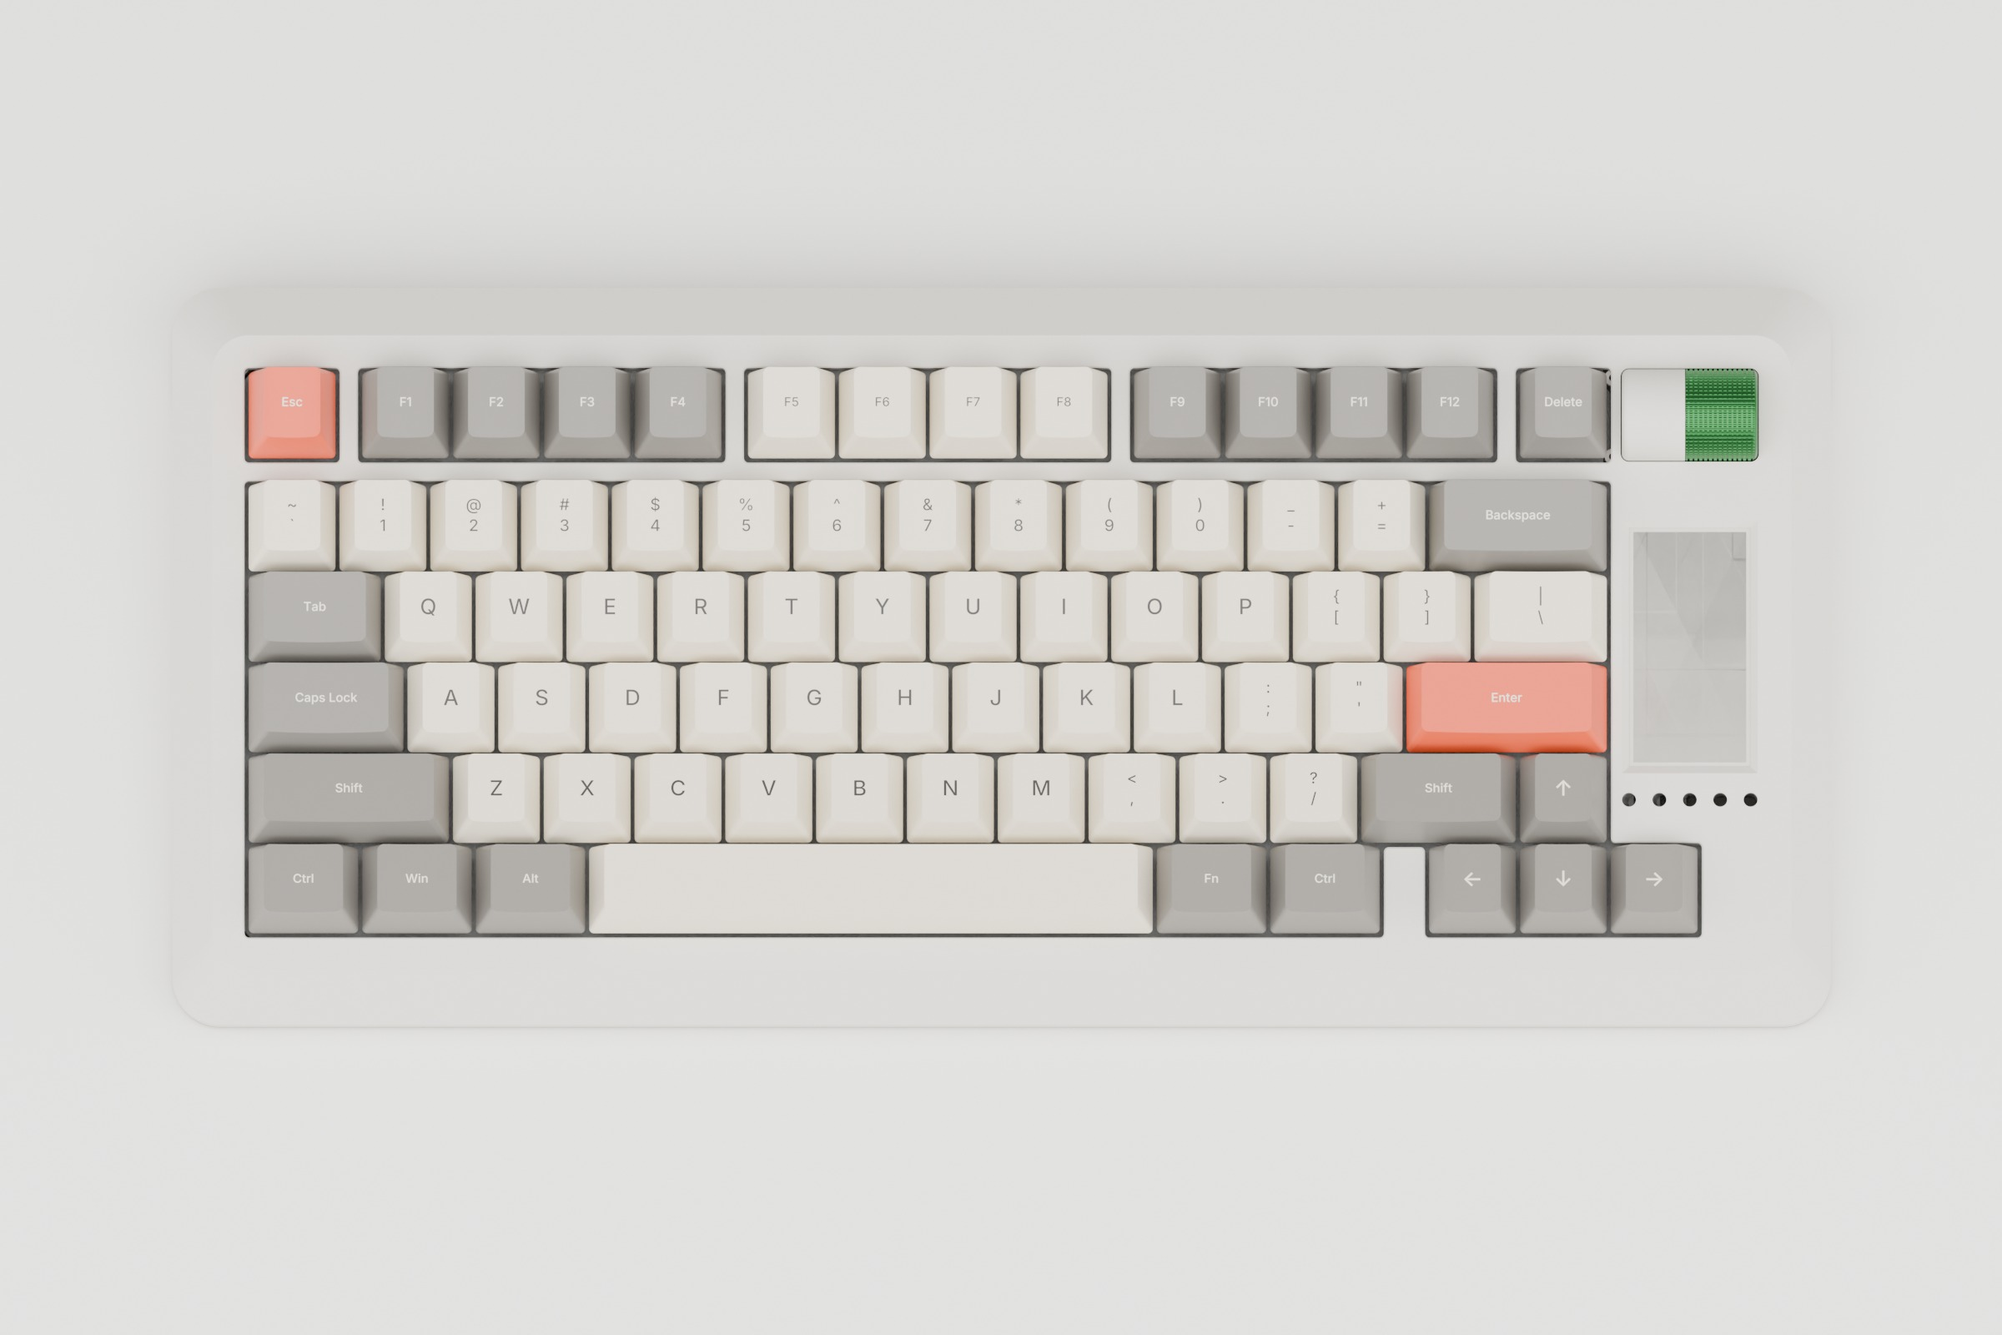
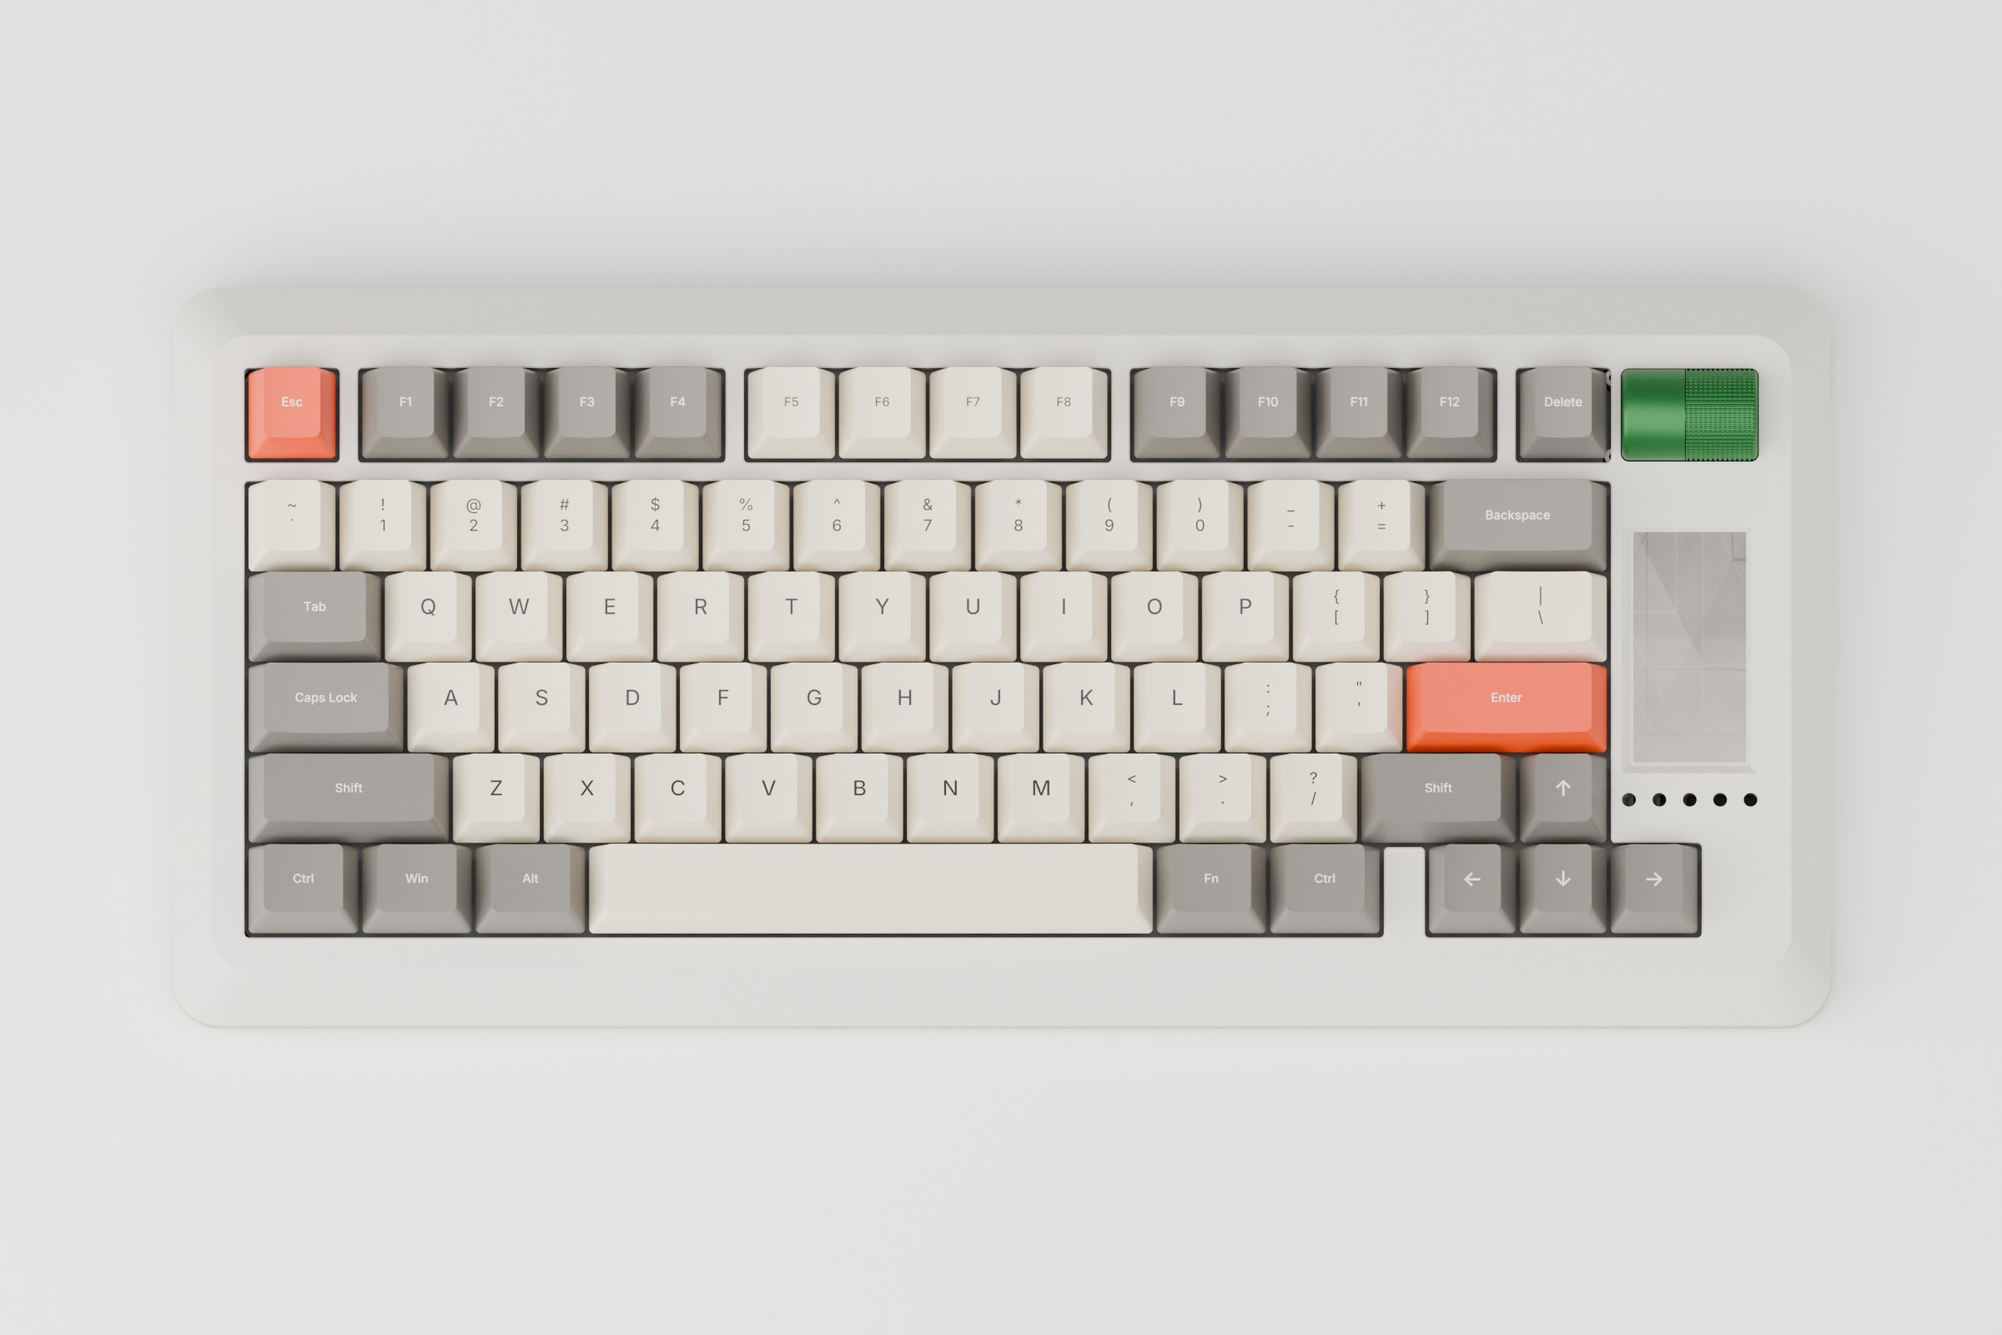
Case renders: lighter orange, anodised encoder cover, felt mat, more contrast
From Tiam's review: ring, knob and encoder cover in a lighter orange that
matches the keycaps; the loose keycap sits flat; lower exposure and more
contrast; a felt desk mat, plant, framed print and pen in the dramatic
scene; higher samples. Adds the montage script.

diff --git a/hardware/case/blender/render.py b/hardware/case/blender/render.py
@@ -26,7 +26,8 @@ sc.cycles.use_adaptive_sampling = True
 sc.cycles.use_denoising = True
 sc.cycles.max_bounces = 10; sc.cycles.transmission_bounces = 10; sc.cycles.glossy_bounces = 6
 sc.view_settings.view_transform = "AgX"
-sc.view_settings.look = "AgX - Medium High Contrast" if SCENE == "dramatic" else "AgX - Base Contrast"
+sc.view_settings.look = "AgX - High Contrast" if SCENE == "dramatic" else "AgX - Medium High Contrast"
+sc.view_settings.exposure = {"dramatic": -0.35, "views": -0.3, "simple": 0.3}.get(SCENE, 0.0)
 sc.render.image_settings.file_format = "PNG"
 sc.render.film_transparent = False
 
@@ -134,7 +135,7 @@ def shot(cam, name, res=(2400, 1600)):
     sc.render.filepath = os.path.join(OUT, name + ".png")
     bpy.ops.render.render(write_still=True); print("wrote", sc.render.filepath)
 
-def copy_cap(keyword, loc, rot):
+def copy_cap(keyword, loc, rot, floor=0.0):
     """Loose keycap prop: copy a cap and its legends, move them to loc."""
     parts = [o for o in root.children if o.get("key") == keyword and o["role"] in ("keycap", "legend")]
     if not parts: return
@@ -147,7 +148,13 @@ def copy_cap(keyword, loc, rot):
     for o in parts:
         n = o.copy(); link(n); n.parent = None; n.matrix_world = o.matrix_world.copy()
         n.parent = e; n.matrix_parent_inverse = e.matrix_world.inverted()
-    e.location = loc; e.rotation_euler = rot
+    # undo the board's 4 deg tilt so the cap sits level, then rest its lowest vertex on the desk
+    e.rotation_euler = Euler((-math.radians(4.0), 0, 0))
+    e.rotation_euler.rotate(rot)
+    e.location = loc
+    bpy.context.view_layer.update()
+    zmin = min((n.matrix_world @ v.co).z for n in e.children for v in n.data.vertices)
+    e.location.z -= zmin - floor + 0.0001
 
 lo, hi = world_bounds()
 print("bounds", lo, hi)
@@ -156,9 +163,9 @@ CTR = Vector(((lo.x + hi.x) / 2, (lo.y + hi.y) / 2, 0.012))
 # =====================================================================
 if SCENE == "dramatic":
     world("#1A2030", 0.05)
-    plaster = surface_mat("Plaster", "#B9AB9A", "#CBBFAF", scale=45, bump=0.45, rough=0.92)
-    wood = surface_mat("Oak desk", "#5E3F27", "#86603F", scale=6, bump=0.04, rough=0.5, voronoi=False,
-                       stretch=(0.4, 9.0, 1.0))
+    plaster = surface_mat("Plaster", "#A08E7A", "#CDBFAD", scale=30, bump=0.9, rough=0.92)
+    wood = surface_mat("Oak desk", "#432A18", "#8E6640", scale=6, bump=0.10, rough=0.45, voronoi=False,
+                       stretch=(0.25, 16.0, 1.0))
     def box(name, size, loc, m):
         me = bpy.data.meshes.new(name); bm = bmesh.new(); bmesh.ops.create_cube(bm, size=1.0); bm.to_mesh(me)
         o = link(bpy.data.objects.new(name, me)); o.scale = size; o.location = loc; me.materials.append(m); return o
@@ -166,7 +173,7 @@ if SCENE == "dramatic":
     box("Wall", (3.0, 0.05, 2.0), (0, 0.30 + 0.025, 1.0), plaster)
     # Low warm sun from the front left, through a window with blinds (a gobo card)
     d = Vector((0.62, 0.62, -0.48)).normalized()
-    sun = bpy.data.lights.new("Sun", "SUN"); sun.energy = 9.0; sun.angle = math.radians(0.8)
+    sun = bpy.data.lights.new("Sun", "SUN"); sun.energy = 6.5; sun.angle = math.radians(0.8)
     sun.color = (1.0, 0.78, 0.55)
     so = link(bpy.data.objects.new("Sun", sun)); so.rotation_euler = d.to_track_quat("-Z", "Y").to_euler()
     g = bpy.data.materials.new("Gobo"); g.use_nodes = True; nt = g.node_tree
@@ -213,22 +220,86 @@ if SCENE == "dramatic":
     bpy.ops.mesh.primitive_cylinder_add(radius=0.039, depth=0.002, vertices=128, location=(0.13, 0.215, 0.084))
     bpy.context.object.data.materials.append(coffee)
     nb = simple_mat("Notebook", "#36443A", 0.8)
-    o = box("Notebook", (0.15, 0.21, 0.012), (0.36, 0.12, 0.006), nb); o.rotation_euler.z = math.radians(-14)
-    copy_cap("Esc", (0.19, -0.17, 0.0), Euler((0, 0, math.radians(32))))
-    copy_cap("Enter", (0.09, -0.185, 0.0), Euler((0, 0, math.radians(-12))))
+    o = box("Notebook", (0.15, 0.21, 0.012), (0.41, 0.07, 0.006), nb); o.rotation_euler.z = math.radians(-14)
+    # Felt desk mat with rounded corners under the board
+    MAT_T = 0.004
+    bm = bmesh.new(); W2, H2, r = 0.36, 0.17, 0.028; pts = []
+    for cx, cy, a0 in ((W2 - r, H2 - r, 0), (-W2 + r, H2 - r, 90), (-W2 + r, -H2 + r, 180), (W2 - r, -H2 + r, 270)):
+        for i in range(13):
+            a = math.radians(a0 + i * 7.5); pts.append((cx + r * math.cos(a), cy + r * math.sin(a)))
+    vs = [bm.verts.new((x, y, 0)) for x, y in pts]; f = bm.faces.new(vs)
+    ext = bmesh.ops.extrude_face_region(bm, geom=[f])
+    for v in ext["geom"]:
+        if isinstance(v, bmesh.types.BMVert): v.co.z = MAT_T
+    bmesh.ops.recalc_face_normals(bm, faces=bm.faces)
+    me = bpy.data.meshes.new("Mat"); bm.to_mesh(me)
+    mat_o = link(bpy.data.objects.new("Felt mat", me)); mat_o.location = (-0.05, -0.05, 0.0)
+    mat_o.rotation_euler.z = math.radians(-1.5)
+    bv = mat_o.modifiers.new("bv", "BEVEL"); bv.width = 0.0015; bv.segments = 3; bv.limit_method = "ANGLE"
+    felt = bpy.data.materials.new("Wool felt"); felt.use_nodes = True; nt = felt.node_tree
+    fb = nt.nodes["Principled BSDF"]; fb.inputs["Base Color"].default_value = srgb("#4E4C49")
+    fb.inputs["Roughness"].default_value = 1.0; fb.inputs["Sheen Weight"].default_value = 0.8
+    fb.inputs["Sheen Roughness"].default_value = 0.45; fb.inputs["Sheen Tint"].default_value = srgb("#B9B4AC")
+    geo = nt.nodes.new("ShaderNodeNewGeometry")
+    n1 = nt.nodes.new("ShaderNodeTexNoise"); n1.inputs["Scale"].default_value = 2200; n1.inputs["Detail"].default_value = 10
+    n2 = nt.nodes.new("ShaderNodeTexNoise"); n2.inputs["Scale"].default_value = 60; n2.inputs["Detail"].default_value = 4
+    nt.links.new(geo.outputs["Position"], n1.inputs["Vector"]); nt.links.new(geo.outputs["Position"], n2.inputs["Vector"])
+    cr = nt.nodes.new("ShaderNodeValToRGB"); cr.color_ramp.elements[0].color = srgb("#46443F"); cr.color_ramp.elements[1].color = srgb("#58564F")
+    nt.links.new(n2.outputs["Fac"], cr.inputs["Fac"]); nt.links.new(cr.outputs["Color"], fb.inputs["Base Color"])
+    bp = nt.nodes.new("ShaderNodeBump"); bp.inputs["Strength"].default_value = 0.35; bp.inputs["Distance"].default_value = 0.0004
+    nt.links.new(n1.outputs["Fac"], bp.inputs["Height"]); nt.links.new(bp.outputs["Normal"], fb.inputs["Normal"])
+    me.materials.append(felt)
+    root.location.z += MAT_T
+    # More set dressing behind the board: a potted plant and a framed print leaning on the wall
+    terra = surface_mat("Terracotta", "#9C5235", "#B8694A", scale=120, bump=0.3, rough=0.85)
+    bpy.ops.mesh.primitive_cone_add(vertices=96, radius1=0.036, radius2=0.047, depth=0.075, location=(-0.12, 0.225, 0.0375))
+    pot = bpy.context.object; pot.data.materials.append(terra)
+    for p in pot.data.polygons: p.use_smooth = True
+    soil = simple_mat("Soil", "#2B1D14", 0.95)
+    bpy.ops.mesh.primitive_cylinder_add(radius=0.044, depth=0.002, vertices=64, location=(-0.12, 0.225, 0.07))
+    bpy.context.object.data.materials.append(soil)
+    leaf = simple_mat("Leaf", "#3F6B3A", 0.35, **{"Subsurface Weight": 0.15, "Coat Weight": 0.3})
+    import random; random.seed(7)
+    for i in range(14):
+        a = i * 2.399; tilt = math.radians(18 + 22 * random.random())
+        h = 0.07 + 0.05 * random.random()
+        bpy.ops.mesh.primitive_uv_sphere_add(segments=24, ring_count=12, radius=1.0)
+        lf = bpy.context.object; lf.data.materials.append(leaf)
+        for p in lf.data.polygons: p.use_smooth = True
+        lf.scale = (0.011, 0.0035, h / 2)
+        lf.rotation_euler = Euler((tilt, 0, a))
+        lf.location = Vector((-0.12, 0.225, 0.07)) + Euler((tilt, 0, a)).to_matrix() @ Vector((0, 0, h / 2))
+    frame_m = simple_mat("Walnut frame", "#3A2618", 0.4)
+    fr = box("Frame", (0.22, 0.014, 0.29), (0.34, 0.285, 0.143), frame_m); fr.rotation_euler.x = math.radians(-6)
+    art = bpy.data.materials.new("Print"); art.use_nodes = True; nt = art.node_tree
+    pb = nt.nodes["Principled BSDF"]; pb.inputs["Roughness"].default_value = 0.9
+    tc2 = nt.nodes.new("ShaderNodeTexCoord"); wv = nt.nodes.new("ShaderNodeTexWave")
+    wv.inputs["Scale"].default_value = 0.5; wv.inputs["Distortion"].default_value = 9.0; wv.wave_type = "RINGS"
+    nt.links.new(tc2.outputs["Object"], wv.inputs["Vector"])
+    cr = nt.nodes.new("ShaderNodeValToRGB"); cr.color_ramp.interpolation = "CONSTANT"
+    cr.color_ramp.elements[0].color = srgb("#E2D8C4"); cr.color_ramp.elements[1].color = srgb("#C48A68")
+    cr.color_ramp.elements[1].position = 0.62
+    e3 = cr.color_ramp.elements.new(0.82); e3.color = srgb("#8A9C88")
+    nt.links.new(wv.outputs["Fac"], cr.inputs["Fac"]); nt.links.new(cr.outputs["Color"], pb.inputs["Base Color"])
+    pr2 = box("Print", (0.18, 0.002, 0.25), (0.34, 0.2775, 0.143), art); pr2.rotation_euler.x = math.radians(-6)
+    pen_m = simple_mat("Pen", "#1C1C1C", 0.3, 0.6)
+    bpy.ops.mesh.primitive_cylinder_add(radius=0.0045, depth=0.14, vertices=32, location=(0.40, 0.05, 0.0165),
+                                        rotation=(0, math.radians(90), math.radians(62)))
+    bpy.context.object.data.materials.append(pen_m)
+    copy_cap("Esc", (0.19, -0.17, 0.0), Euler((0, 0, math.radians(32))), floor=MAT_T)
     cam = camera("Cam", (-0.40, -0.62, 0.24), (0.03, 0.0, 0.02), lens=55, fstop=6.3)
     shot(cam, "01-dramatic", (2400, 1600))
 
 
 # =====================================================================
 elif SCENE == "views":
-    world("#A9BBAA", 0.55)
+    world("#A9BBAA", 0.3)
     sage = surface_mat("Sage paper", "#A9BBAA", "#B6C6B5", scale=90, bump=0.12, rough=0.95)
     sweep("Cyc", 8.0, 1.6, 1.6, 0.35, sage, y0=0.25)
-    area("Wash", (0, -0.6, 0.9), (0, 1.05, 0.5), 2.5, 30, (1.0, 0.98, 0.95))
+    area("Wash", (0, -0.6, 0.9), (0, 1.05, 0.5), 2.5, 14, (1.0, 0.98, 0.95))
     area("Key", (-0.55, -0.55, 0.75), CTR, 0.9, 16, (1.0, 0.96, 0.9))
-    area("Rim", (0.6, 0.55, 0.45), CTR, 0.6, 10, (1.0, 0.95, 0.88))
-    area("Top", (0.0, -0.1, 1.1), CTR, 1.4, 6)
+    area("Rim", (0.6, 0.55, 0.45), CTR, 0.6, 9, (1.0, 0.95, 0.88))
+    area("Top", (0.0, -0.1, 1.1), CTR, 1.4, 2)
     d = 0.75
     v = {
         "hero": camera("hero", (-0.36, -0.52, 0.30), (0.0, 0.0, 0.01), lens=50, fstop=5.6),
@@ -252,12 +323,11 @@ elif SCENE == "views":
 
 # =====================================================================
 elif SCENE == "simple":
-    sc.view_settings.exposure = 0.55
-    world("#FFFFFF", 0.35)
+    world("#FFFFFF", 0.25)
     white = simple_mat("White cyc", "#F3F2EF", 0.9)
     sweep("Cyc", 5.0, 3.0, 2.0, 0.5, white, y0=0.9)
-    area("Soft", (0.0, -0.4, 1.2), CTR, 1.6, 30)
-    area("Side", (-0.9, -0.3, 0.5), CTR, 1.0, 8)
-    area("Side2", (0.9, -0.3, 0.5), CTR, 1.0, 8)
+    area("Soft", (0.0, -0.4, 1.2), CTR, 1.6, 22)
+    area("Side", (-0.9, -0.3, 0.5), CTR, 1.0, 12)
+    area("Side2", (0.9, -0.3, 0.5), CTR, 1.0, 2)
     cam = camera("plan", (0, -0.16, 1.0), (0, 0.0, 0.0), lens=85, ortho=0.42)
     shot(cam, "03-simple", (2400, 1600))

diff --git a/hardware/case/blender/build.py b/hardware/case/blender/build.py
@@ -1,4 +1,4 @@
-# Blender (headless): import the tessellated assembly, assign materials, save base.blend
+# Blender (headless): import the tessellated assembly, assign materials, save base.blend
 import bpy, bmesh, json, os, re, sys, math
 S = os.path.dirname(os.path.abspath(__file__))
 MESH = os.environ.get("MESH", os.path.join(S, "mesh"))
@@ -33,11 +33,11 @@ def add_bump(m, scale=900.0, strength=0.06, dist=0.0002, rough_var=None):
     nt.links.new(n.outputs["Fac"], bp.inputs["Height"])
     nt.links.new(bp.outputs["Normal"], b.inputs["Normal"])
 
-accent_hex = "#F2551D" if ACCENT == "orange" else "#2F6B3A"
+accent_hex = "#FF9A66" if ACCENT == "orange" else "#2F6B3A"
 M = {
     "ecoat": mat("Ecoat warm light grey", "#D9D4CB", 0.62, 0.0, **{"Coat Weight": 0.08, "Coat Roughness": 0.5}),
-    "accent": mat("Anodised accent", accent_hex, 0.32, 1.0),
-    "knob": mat("Anodised knob", accent_hex, 0.36, 1.0),
+    "accent": mat("Anodised accent", accent_hex, 0.42, 0.45),
+    "knob": mat("Anodised knob", accent_hex, 0.42, 0.5),
     "brass": mat("Polished brass", "#E9C27A", 0.07, 1.0),
     "steel": mat("Stainless steel", "#C9CBCC", 0.22, 1.0),
     "plate": mat("Frosted polycarbonate", "#F2F2EE", 0.42, 0.0, **{"Transmission Weight": 0.92, "IOR": 1.58}),
@@ -60,16 +60,18 @@ M = {
 add_bump(M["ecoat"], 1600, 0.05)
 add_bump(M["accent"], 2500, 0.03)
 add_bump(M["plate"], 2000, 0.15)
+for k in ("cap_alpha", "cap_mod", "cap_accent", "knob"):
+    add_bump(M[k], 2600, 0.02)  # faint moulding / blasting texture
 
 ACCENT_KEYS = {"Esc", "Enter"}
 MOD_KEYS = {"Tab", "Caps Lock", "Shift", "Shift 2", "Ctrl", "Ctrl 2", "Win", "Alt", "Fn",
-            "Backspace", "Delete", "Spacebar", "â†‘", "â†", "â†“", "â†’",
+            "Backspace", "Delete", "Spacebar", "↑", "←", "↓", "→",
             "F1", "F2", "F3", "F4", "F9", "F10", "F11", "F12"}
 
 def keyname(chain, label):
     for c in chain:
         mm = re.match(r"^(.+?) \(R\d, [\d.]+u\)$", c)
-        if mm: return mm.group(1).encode("latin-1", "ignore").decode("utf-8", "ignore") if "Ã¢" in mm.group(1) else mm.group(1)
+        if mm: return mm.group(1).encode("latin-1", "ignore").decode("utf-8", "ignore") if "â" in mm.group(1) else mm.group(1)
     if any("Spacebar" in c for c in chain) and label.startswith(("cap", "legend")): return "Spacebar"
     return None
 
@@ -81,7 +83,7 @@ def classify(e):
     lab, ch = e["label"], e["chain"]; path = " ".join(ch) + " " + lab
     if lab in CASE:
         role = CASE[lab]
-        return role, {"bottom": "ecoat", "top": "ecoat", "ring": "accent", "enc_cover": "ecoat", "knob": "knob",
+        return role, {"bottom": "ecoat", "top": "ecoat", "ring": "accent", "enc_cover": "knob", "knob": "knob",
                       "led_guide": "guide", "screen_frame": "plastic", "switch_cap": "accent", "weight": "brass",
                       "rail": "rubber"}[role]
     if lab.startswith("COMPOUND"): return "screw", "steel"

diff --git a/hardware/case/blender/montage.py b/hardware/case/blender/montage.py
@@ -1,0 +1,27 @@
+# python montage.py <frames dir> <out.jpg>: hero on top, six labelled views below (needs Pillow)
+import sys
+from PIL import Image, ImageDraw, ImageFont
+
+F, OUT = sys.argv[1].rstrip("/\\") + "/", sys.argv[2]
+G = 24
+hero = Image.open(F + "views-hero.png").convert("RGB").resize((2400, 1600))
+names = [("back", "Back: USB-C and power switch"), ("right-end", "Right end: knob and finger scoop"),
+         ("knob", "Knob, screen and status LEDs"), ("top", "Plan"),
+         ("underside", "Underside: rails and weight window"), ("weight", "Brass weight engraving")]
+tw = (2400 - 4 * G) // 3
+th = int(tw * 1067 / 1600)
+W = Image.new("RGB", (2400, 1600 + G + 2 * (th + G)), (236, 233, 226))
+W.paste(hero, (0, 0))
+try:
+    font = ImageFont.truetype("segoeui.ttf", 26)
+except OSError:
+    font = ImageFont.load_default()
+d = ImageDraw.Draw(W)
+for i, (n, lab) in enumerate(names):
+    im = Image.open(F + f"views-{n}.png").convert("RGB").resize((tw, th), Image.LANCZOS)
+    x = G + (i % 3) * (tw + G)
+    y = 1600 + G + (i // 3) * (th + G)
+    W.paste(im, (x, y))
+    d.rounded_rectangle((x + 14, y + th - 54, x + 28 + d.textlength(lab, font=font), y + th - 14), 8, fill=(255, 255, 255))
+    d.text((x + 21, y + th - 50), lab, fill=(60, 58, 54), font=font)
+W.save(OUT, quality=92)

diff --git a/hardware/case/blender/README.md b/hardware/case/blender/README.md
@@ -1,17 +1,17 @@
-# Blender renders (case rev 2)
+# Blender renders (case rev 2)
 
 Preview renders of the full assembly (`../step/Dachshund70-Case-Assembly.step`), made in Blender 5.2 with Cycles.
 They show the preliminary look; they are not a spec. The Fusion model is still the source of truth.
 
 | File | What |
 | --- | --- |
-| `renders/01-dramatic.jpg` | Low warm sun through window blinds, oak desk, plaster wall, mug, notebook and a loose keycap |
+| `renders/01-dramatic.jpg` | Low warm sun through window blinds: felt desk mat, oak desk, plaster wall, plant, framed print, mug, notebook and a loose keycap |
 | `renders/02-views.jpg` | Hero view plus back, right end, knob close-up, plan, underside and the brass weight, on sage paper |
-| `renders/03-simple-orange.jpg` | Plan view on white, orange anodised ring and knob |
+| `renders/03-simple-orange.jpg` | Plan view on white, orange anodised ring, knob and encoder cover |
 | `renders/03-simple-green.jpg` | The same with green anodising |
 
 Finishes: warm light-grey matte e-coat case, GMK Kaiju-style keycaps (cream alphas, warm grey mods, red-orange
-Esc and Enter), anodised ring and knob (orange `#F2551D` or green `#2F6B3A`), polished brass weight, stainless
+Esc and Enter), anodised ring, knob and encoder cover (orange `#FF9A66` or green `#2F6B3A`), polished brass weight, stainless
 screws, frosted polycarbonate plate.
 
 ## Re-rendering
@@ -30,4 +30,4 @@ blender -b /path/to/work/base_orange.blend --python hardware/case/blender/render
 `ACCENT=green` builds the green variant. The case parts in the assembly STEP are unnamed compounds; `build.py`
 maps them by name (`COMPOUND` = bottom, `001` = top, `002` = ring, `003` = encoder cover, `004` = knob,
 `005` = LED guide, `006` = screen frame, `007` = switch cap, `008` = weight, `013`/`014` = rails, the rest are
-screws). If the Fusion export order changes, update that map. `02-views.jpg` is a montage of the `views-*` frames.
+screws). If the Fusion export order changes, update that map. `02-views.jpg` is a montage of the `views-*` frames: `python hardware/case/blender/montage.py /path/to/work/out 02-views.jpg`.
